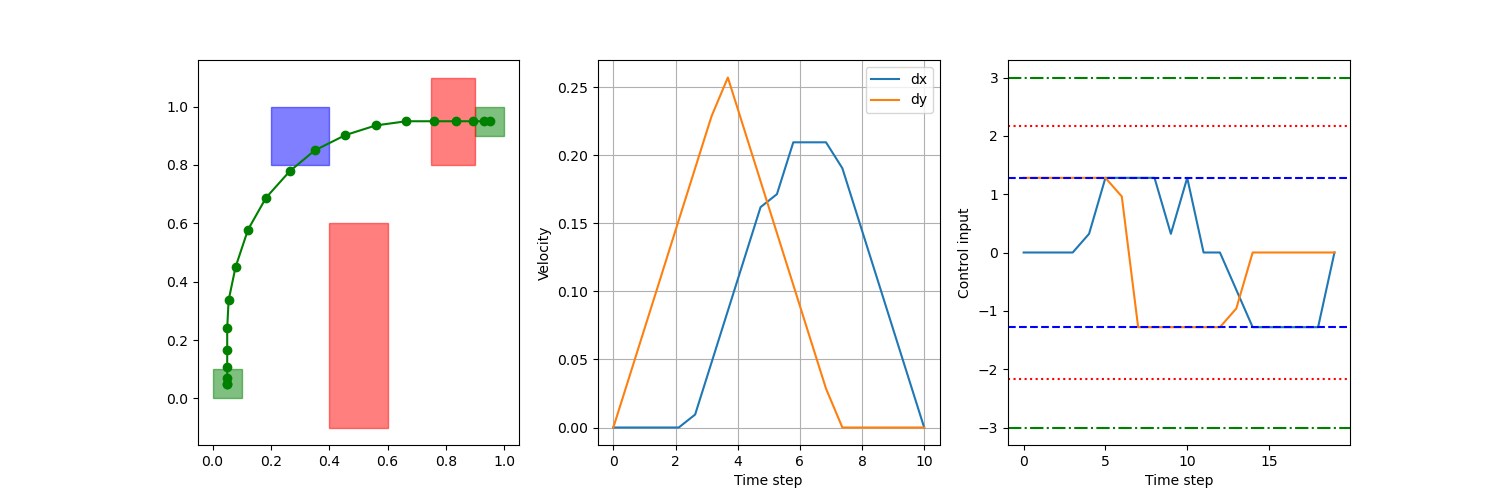
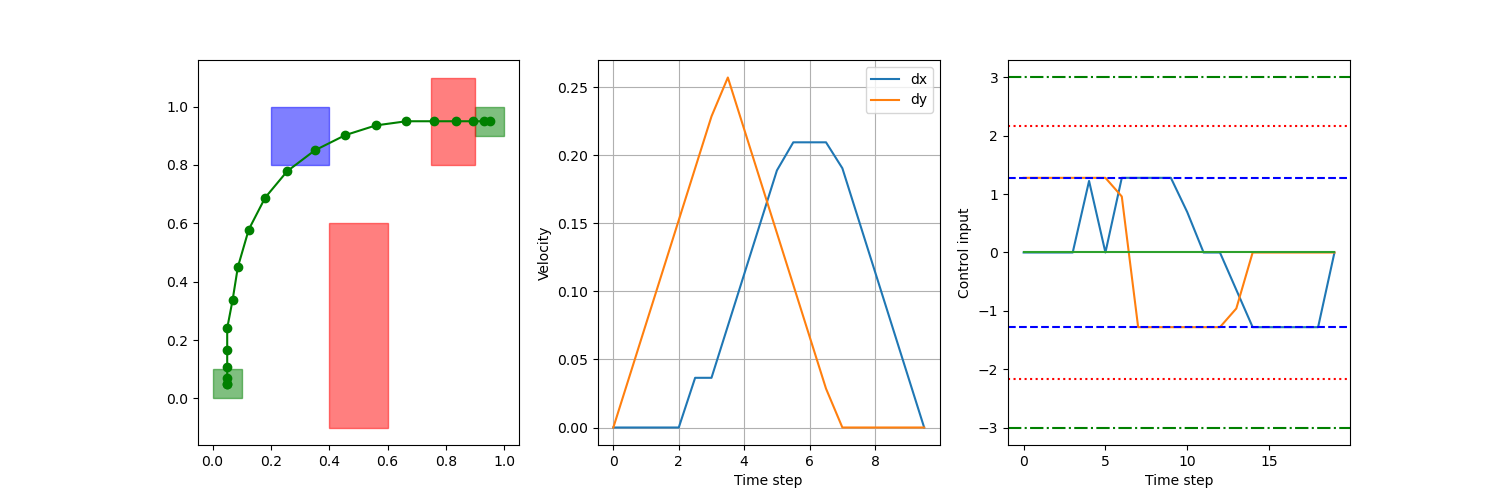
added reference trajectory interpolation

diff --git a/Planning/main.py b/Planning/main.py
@@ -23,7 +23,7 @@ from Utilities.stl import Pred, Spec, quant_parse_operator, OptProbItems
 N = 20     # number of time steps
 dt = 0.5    # time step size
 t0 = 0      # initial time
-tf = N*dt   # final time
+tf = (N-1)*dt   # final time
 
 bigM = 1e4
 
@@ -56,15 +56,15 @@ if True:
     opt = gp.Model("prob1")
     x_vars = opt.addMVar((N, sp_robot.n_x), lb=-np.inf, ub=np.inf, name="X")
     u_vars = opt.addMVar((N, sp_robot.n_u), lb=-np.inf, ub=np.inf, name="U")
-    t_sp = np.linspace(0, tf, N)
+    t_sp = np.linspace(0,(N-1)*dt, N)
     alpha_vars = opt.addVar(lb=0, ub=1, name="alpha")
     opt.update()
 
     items = OptProbItems(x_vars, u_vars, t_sp)
 
     for i in range(N):
-        opt.addConstrs((u_vars[i, j] >= alpha_vars*sp_robot.U_effective.lower_bounds[j] for j in range(2)))
-        opt.addConstrs((u_vars[i, j] <= alpha_vars*sp_robot.U_effective.upper_bounds[j] for j in range(2)))
+        opt.addConstrs((u_vars[i, j] >= alpha_vars*sp_robot.U_effective.lower_bounds[j] for j in range(sp_robot.n_u)))
+        opt.addConstrs((u_vars[i, j] <= alpha_vars*sp_robot.U_effective.upper_bounds[j] for j in range(sp_robot.n_u)))
 
     # constraints
     opt.addConstrs((x_vars[i+1,:] == sp_robot.step(x_vars[i, :], u_vars[i, :], dt) for i in range(N-1)))
@@ -108,11 +108,11 @@ if True:
     u_ff = u_vars.X
     alpha = alpha_vars.X
     # save x_ff and u_ff to a csv file
-    np.savez('Planning/solutions/sp_solution.npz', x_ff=x_ff, u_ff=u_ff, dt=dt, alpha=alpha, times=t_sp)
+    np.savez('Planning/solutions/sp_solution_euler.npz', x_ff=x_ff, u_ff=u_ff, dt=dt, alpha=alpha, times=t_sp)
 
 else:
     # or load instead
-    data = np.load('Planning/solutions/sp_solution.npz')
+    data = np.load('Planning/solutions/sp_solution_euler.npz')
     x_ff = data['x_ff']
     u_ff = data['u_ff']
     alpha = data['alpha']
@@ -138,6 +138,7 @@ axs[1].grid()
 
 axs[2].plot(u_ff[:,0])
 axs[2].plot(u_ff[:,1])
+axs[2].plot(u_ff[:,2])
 axs[2].axhline(sp_robot.U.lower_bounds[0], color='g', linestyle='-.', label="U_lb")
 axs[2].axhline(sp_robot.U.upper_bounds[0], color='g', linestyle='-.')
 axs[2].axhline(alpha*sp_robot.U_effective.lower_bounds[0], color='b', linestyle='--', label="alpha*U_effective_lb")
@@ -156,6 +157,7 @@ for i in range(x_ff.shape[0]):
     x_ff_quat[i,:] = euler_x_to_quat_x_np(x_ff[i, :])
 print(x_ff_quat[:, 3:7])
 print(np.linalg.norm(x_ff_quat[:, 3:7],axis=1))  # should be close to 1
+np.savez('Planning/solutions/sp_solution_quat.npz', x_ff=x_ff_quat, u_ff=u_ff, dt=dt, alpha=alpha, times=t_sp)
 
 # feedback linearization controller for the underwater robot to behave like a free flyer
 uw_robot = BlueROV(quaternion=True)
@@ -185,9 +187,11 @@ for i in range(N-1):
     x_uw_fbl_sp[i+1, :] = x
     u_uw_fbl_sp[i, :] = u
 
+
 # print(f"u_uw_fbl_sp: {u_uw_fbl_sp[:,0]}")
 # print(f"u_uw_fbl_sp: {u_uw_fbl_sp[:,1]}")
 print(f"u_uw_fbl_sp: {u_uw_fbl_sp[:,2]}")
+print(f"x_uw_fbl_sp: {x_uw_fbl_sp[:,2]}")
 
 fig, axs = plt.subplots(1,3, figsize=(15, 5))
 axs[0].plot(x_uw_fbl_sp[:, 0], x_uw_fbl_sp[:, 1], 'g-')
@@ -216,7 +220,7 @@ plt.savefig("figures/sp_trajectory_uw.png")
 
 
 u_max = np.max(np.abs(u_uw_fbl_sp), axis=0)
-print(f"\nAlpha if u_sp applied to BlueROV directly: {np.max(u_max/uw_robot.U.upper_bounds[0:2])}")
+print(f"\nAlpha if u_sp applied to BlueROV directly: {np.max(u_max/uw_robot.U.upper_bounds)}")
 print(f"This is lower because BlueROV is faster than free flyer")
 
 u_uw = np.array([u_fbl(x_uw_fbl_sp[i,:],u_uw_fbl_sp[i,:])[0:2].squeeze() for i in range(N)])

diff --git a/Planning/bezier_fitting.py b/Planning/bezier_fitting.py
@@ -6,7 +6,7 @@ import sys
 sys.path.append(".")
 from Utilities.beziers import eval_bezier
 
-data = np.load('Planning/solutions/sp_solution.npz')
+data = np.load('Planning/solutions/sp_solution_quat.npz')
 
 x_ff = data['x_ff']
 u_ff = data['u_ff']
@@ -14,7 +14,7 @@ alpha = data['alpha']
 dt = data['dt']
 
 N = x_ff.shape[0]
-n = 2
+n = 3
 times = np.arange(N) * dt
 
 # create d-th order Bezier curve from variables
@@ -34,17 +34,13 @@ for i in range(N-1):
 
 # end-point position constraints
 for i in range(N-1):
-    constraints += [r_vars[i][:,0] == x_ff[i,:2]]
-    constraints += [r_vars[i][:,-1] == x_ff[i+1,:2]]
+    constraints += [r_vars[i][:,0] == x_ff[i,0:3]]
+    constraints += [r_vars[i][:,-1] == x_ff[i+1,0:3]]
 
 # end-point velocity constraints
 for i in range(N-1):
-    constraints += [dr_vars[i][:,0] == x_ff[i,2:]]
-    constraints += [dr_vars[i][:,-1] == x_ff[i+1,2:]]
-
-# # end-point acceleration constraints
-# for i in range(N-2):
-#     constraints += [ddr_vars[i][:,-1] == ddr_vars[i+1][:,0]]
+    constraints += [dr_vars[i][:,0] == x_ff[i,7:10]]
+    constraints += [dr_vars[i][:,-1] == x_ff[i+1,7:10]]
 
 # cost
 for i in range(N-1):
@@ -52,6 +48,19 @@ for i in range(N-1):
 
 prob = cp.Problem(cp.Minimize(cost), constraints)
 prob.solve(solver=cp.SCS)
+
+# Gather the results and save
+r_sols = [r_vars[i].value for i in range(N-1)]
+dr_sols = [dr_vars[i].value for i in range(N-1)]
+ddr_sols = [ddr_vars[i].value for i in range(N-1)]
+r_sols, dr_sols, ddr_sols = np.array(r_sols), np.array(dr_sols), np.array(ddr_sols)
+
+q_sols = [np.array([x_ff[i, 3:7], x_ff[i+1, 3:7]]) for i in range(N-1)]
+q_sols = np.array(q_sols)
+
+np.savez('Planning/solutions/sp_solution_bezier.npz',
+         r=r_sols, dr=dr_sols, ddr=ddr_sols, q=q_sols, dt=dt, alpha=alpha, times=times)
+
 
 r_vals = [eval_bezier(r_vars[i].value) for i in range(N-1)]
 dr_vals = [eval_bezier(dr_vars[i].value) for i in range(N-1)]
@@ -71,8 +80,8 @@ axs[0].set_title('Trajectory and Bezier Curve')
 axs[0].set_xlabel('x')
 axs[0].set_ylabel('y')
 
-axs[1].plot(times, x_ff[:,2], 'bo', label='Velocity')
-axs[1].plot(times, x_ff[:,3], 'ro')
+axs[1].plot(times, x_ff[:,7], 'bo', label='Velocity')
+axs[1].plot(times, x_ff[:,8], 'ro')
 for i in range(N-1):
     i_time = np.linspace(i*dt, (i+1)*dt, r_vals[i].shape[1])
     axs[1].plot(i_time, dr_vals[i][0, :], 'b', label=f'Bezier {i}')

diff --git a/Control/get_reference_trajectory.py b/Control/get_reference_trajectory.py
@@ -1,0 +1,48 @@
+import numpy as np
+from scipy.spatial.transform import Slerp, Rotation
+
+import os
+import sys
+parent_dir = os.path.abspath(os.path.join(os.path.dirname(__file__), '..'))
+sys.path.insert(0, parent_dir)
+
+from Utilities.beziers import value_bezier
+
+data = np.load('Planning/solutions/sp_solution_quat.npz')
+
+x_ff = data['x_ff']
+u_ff = data['u_ff']
+dt = data['dt']
+
+data = np.load('Planning/solutions/sp_solution_bezier.npz')
+r = data['r']
+dr = data['dr']
+ddr = data['ddr']
+q = data['q']
+
+
+def get_reference_trajectory(t:float):
+    idx = min(int(t / dt), r.shape[0]-1)
+    s = (t - idx * dt) / dt
+    print(f"idx: {idx}, s: {s}")
+
+    p = value_bezier(r[idx], s)
+    v = value_bezier(dr[idx], s)
+
+    slerp = Slerp([0, 1], Rotation.from_quat(q[idx], scalar_first=True))
+    q_val = slerp(s).as_quat(scalar_first=True)
+
+    # TODO: this seems to map [1,0,0,0] quat to [pi,0,0] euler angles (should be [0,0,0])
+    ds = 1e-6
+    dq_val = slerp([s, min(1,s+ds)]).as_euler('xyz')
+    dq_val = (dq_val[1] - dq_val[0]) / ds
+
+    print(f"q_val: {q_val}")
+    print(f"dq_val: {dq_val}")
+    return np.concatenate((p, q_val, v, dq_val))
+
+
+for t in np.arange(0, dt*(x_ff.shape[0]-1), 0.1):
+    print(t)
+    x_ref = get_reference_trajectory(t)
+    print(f"t: {t}, x_ref: {x_ref}")

diff --git a/Utilities/beziers.py b/Utilities/beziers.py
@@ -22,3 +22,30 @@ def eval_bezier(cps, N=100):
         for i in range(n+1):
             vals += np.outer(bernstein_poly(i,n,ts),cps[:,i]).T
         return vals
+    
+def value_bezier(cps, t):
+    if len(cps.shape) == 3:
+        # if cps has three dimensions we consider the parallel beziers
+        vals = np.zeros(cps.shape)
+        for i in range(cps.shape[2]):
+            vals[:,:,i] = value_bezier(cps[:,:,i],t)
+    else:
+        # otherwise we consider the bezier curve (cps.shape = [dim,order])
+        ndim = cps.shape[0]
+        n = cps.shape[1]-1
+
+        vals = np.zeros(ndim)
+        for i in range(n+1):
+            vals += bernstein_poly(i,n,t)*cps[:,i]
+        return vals
+    
+def eval_t(hvars, t):
+    t_array = np.array([hvar[0,0] for hvar in hvars])
+    idx = np.where(t_array <= t)[0][-1]
+
+    if t > hvars[-1][0,-1] - 1e-3:
+        s = 1
+    else:
+        error = lambda s: value_bezier(hvars[idx],s)[0] - t
+        s = optimize.root_scalar(error, bracket=[0,1]).root
+    return idx, s
